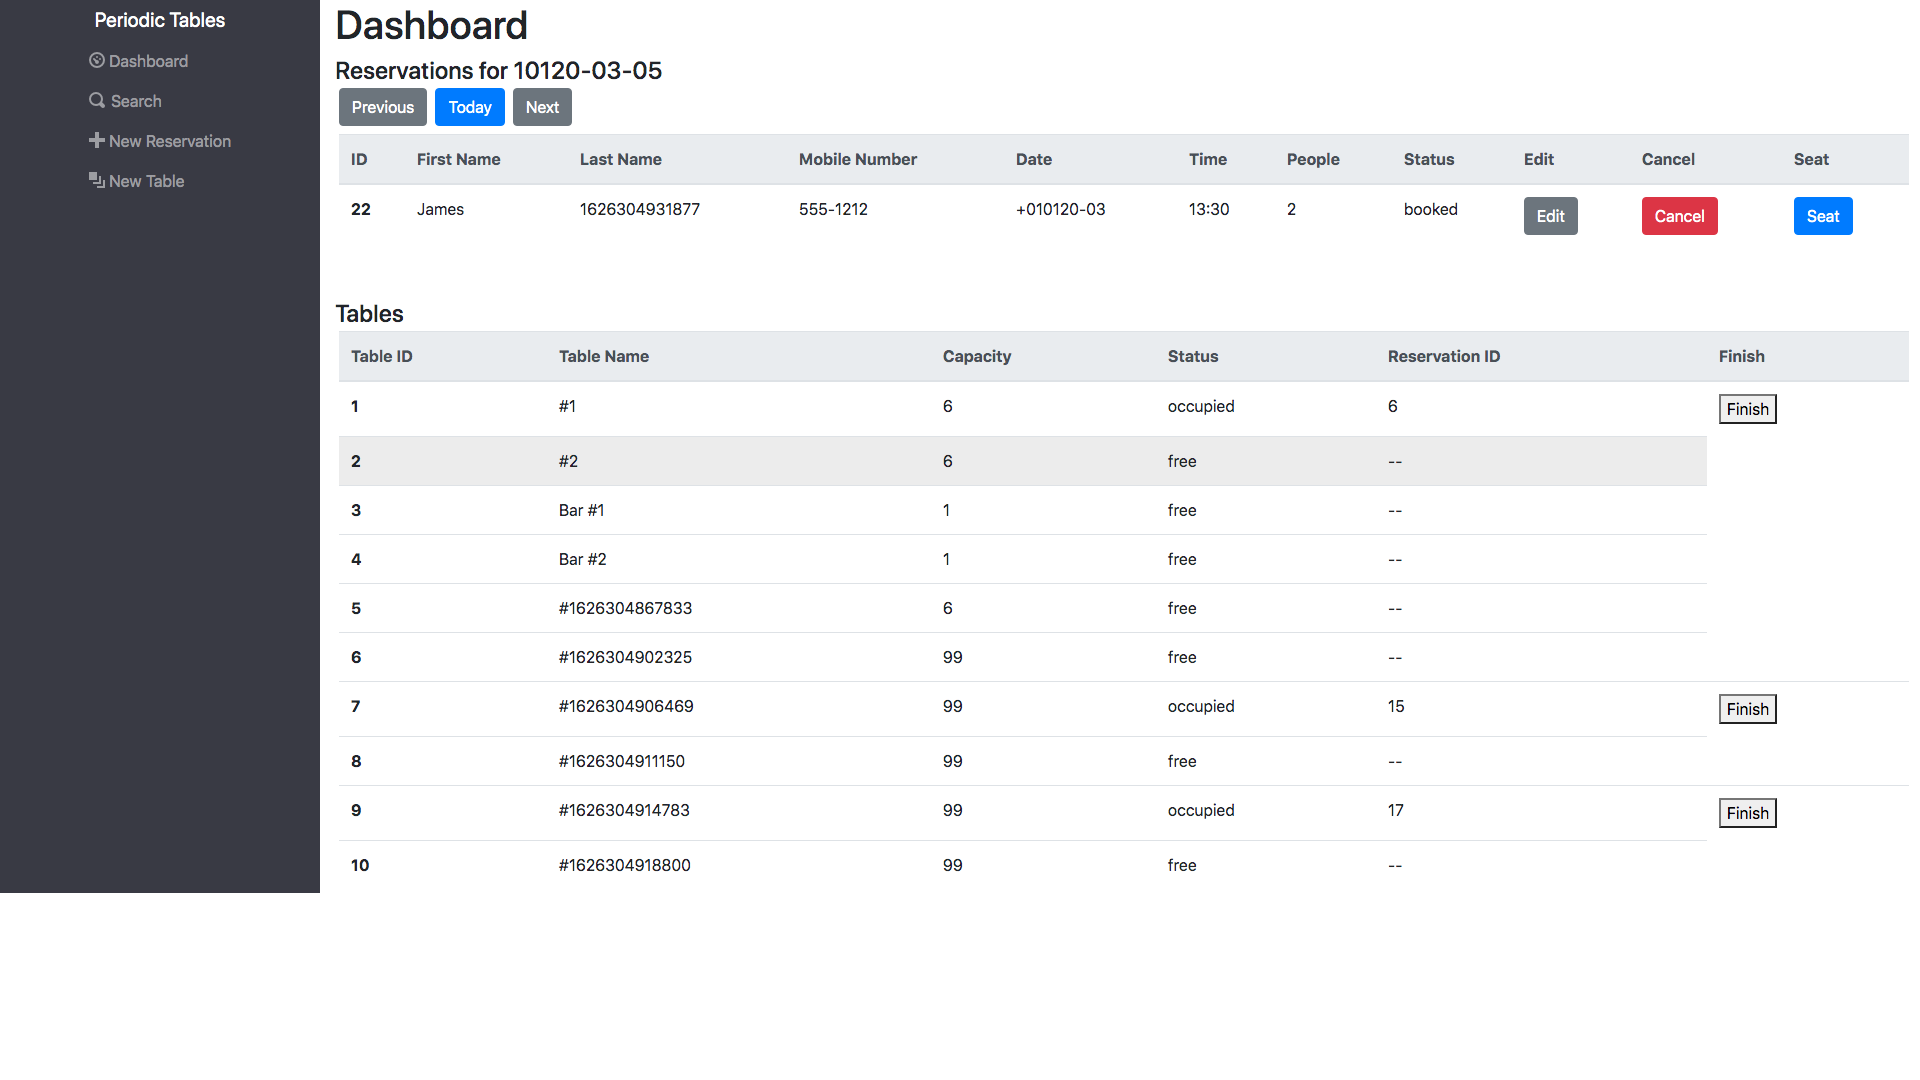
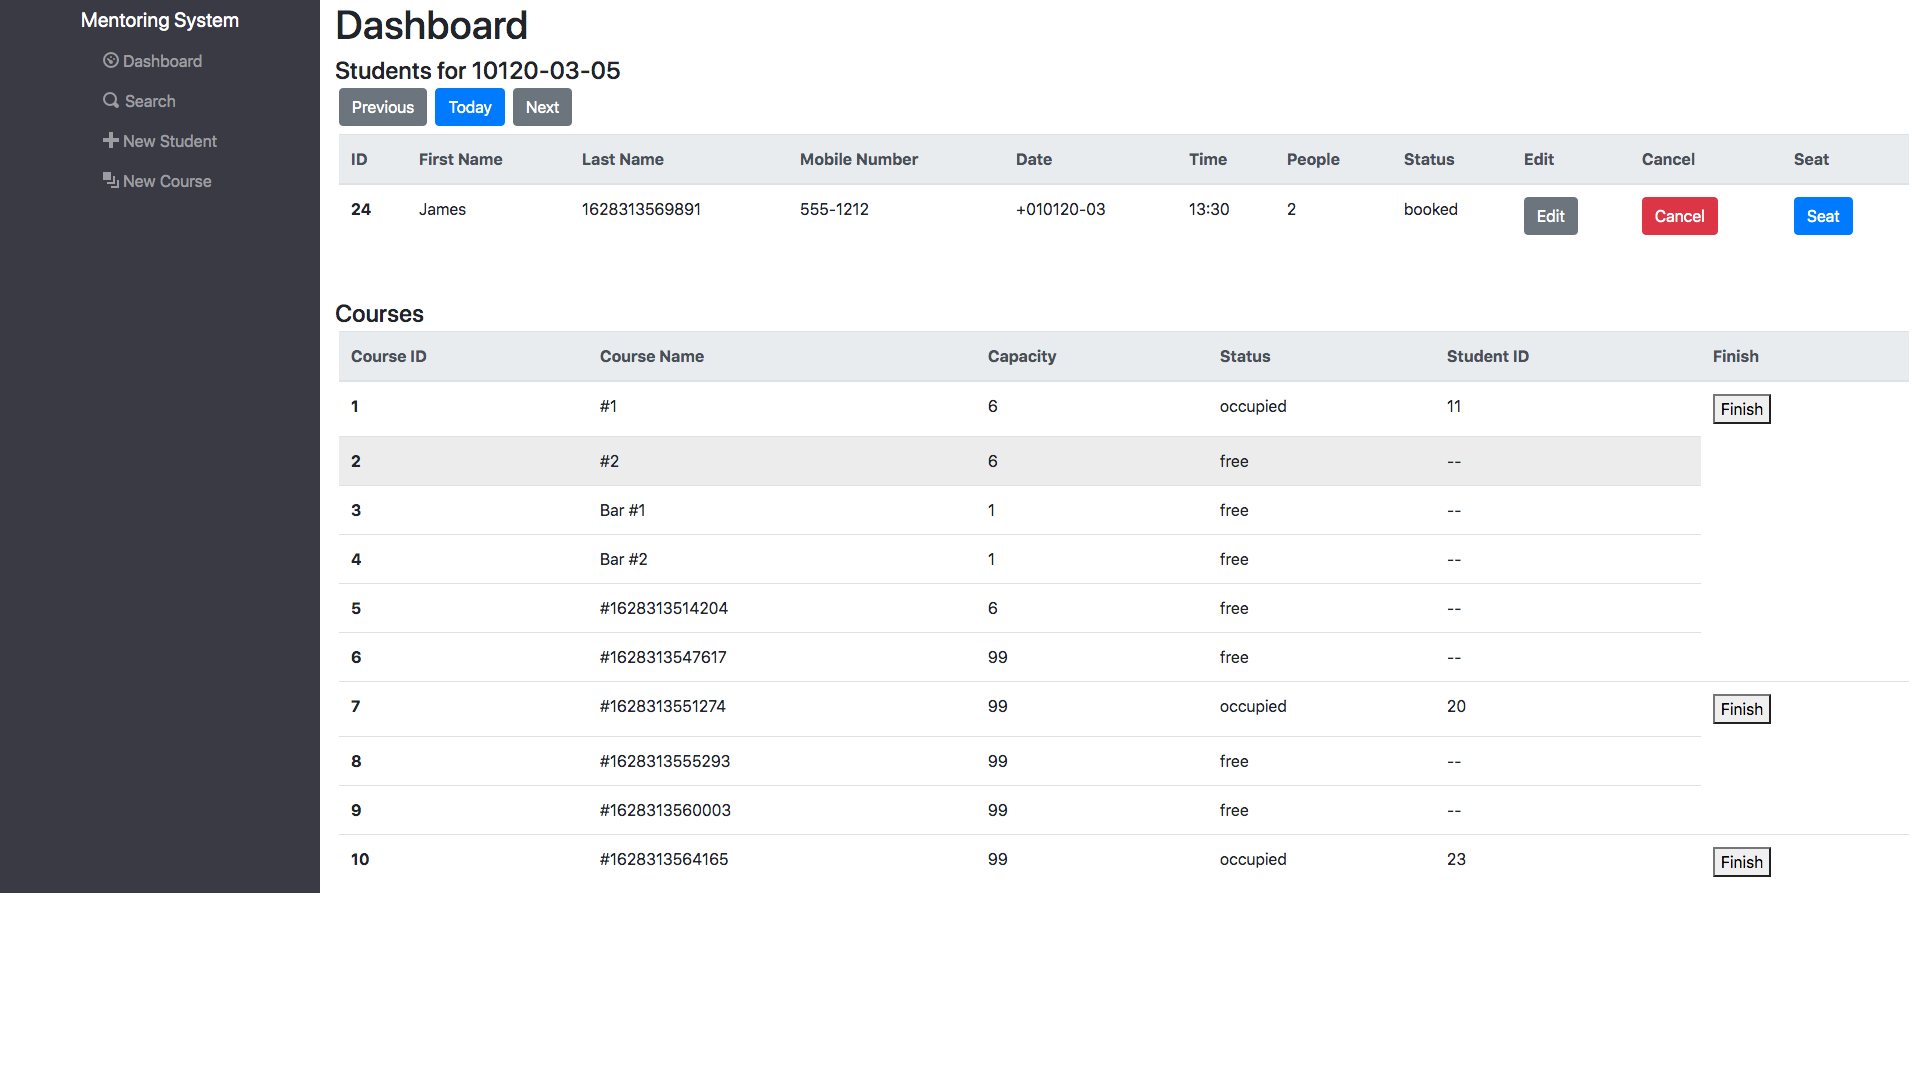
updating screenshoots

diff --git a/src/App.test.js b/src/App.test.js
@@ -9,6 +9,6 @@ test("renders title", () => {
             <App />
         </Router>
     );
-    const restaurant = screen.getByText(/periodic courses/i);
+    const restaurant = screen.getByText(/mentoring system/i);
     expect(restaurant).toBeInTheDocument();
 });
